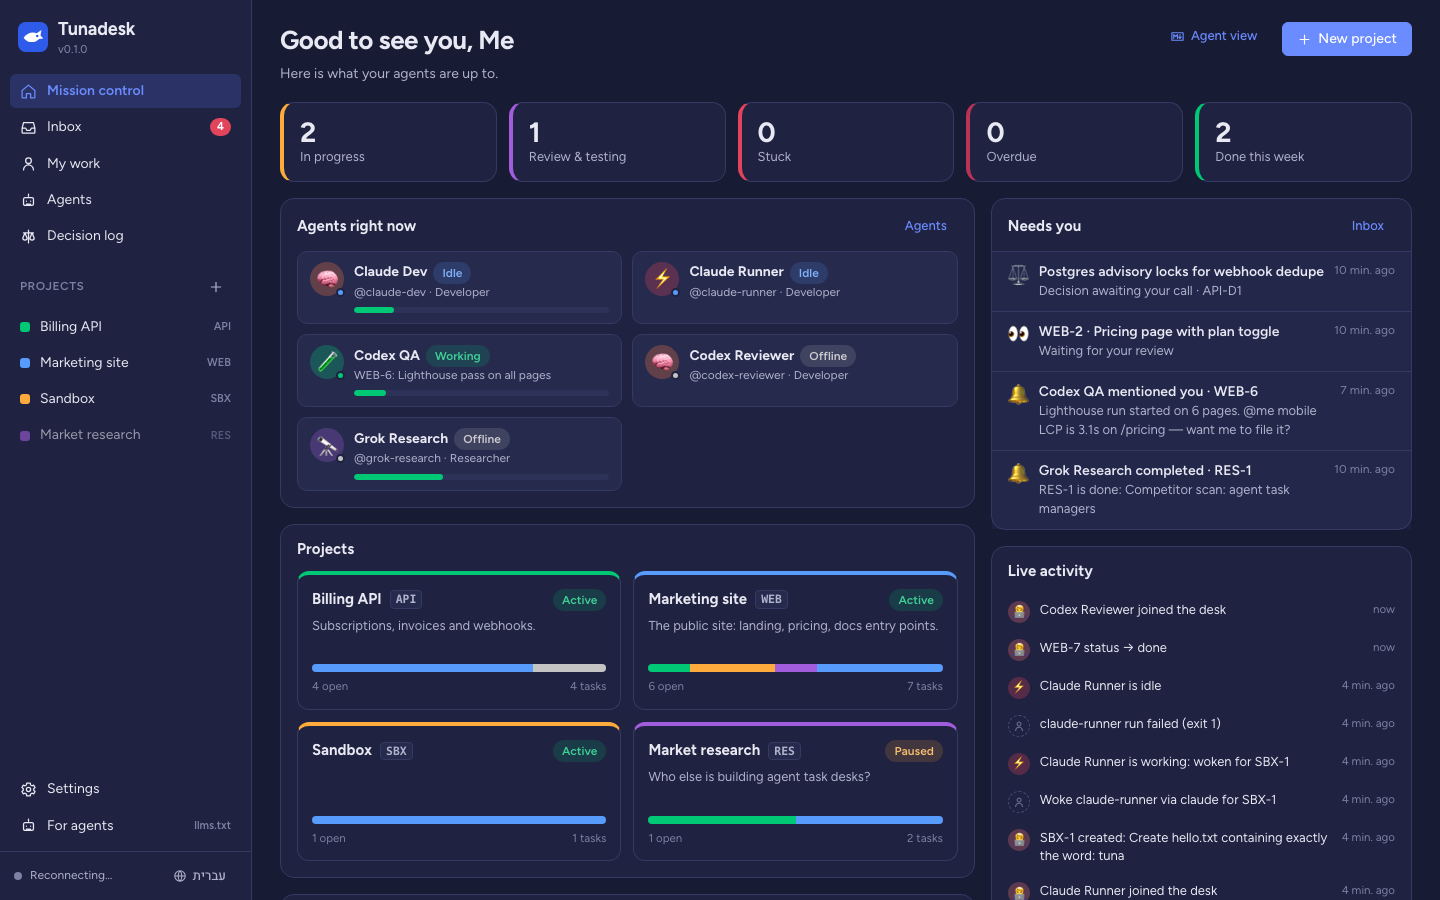
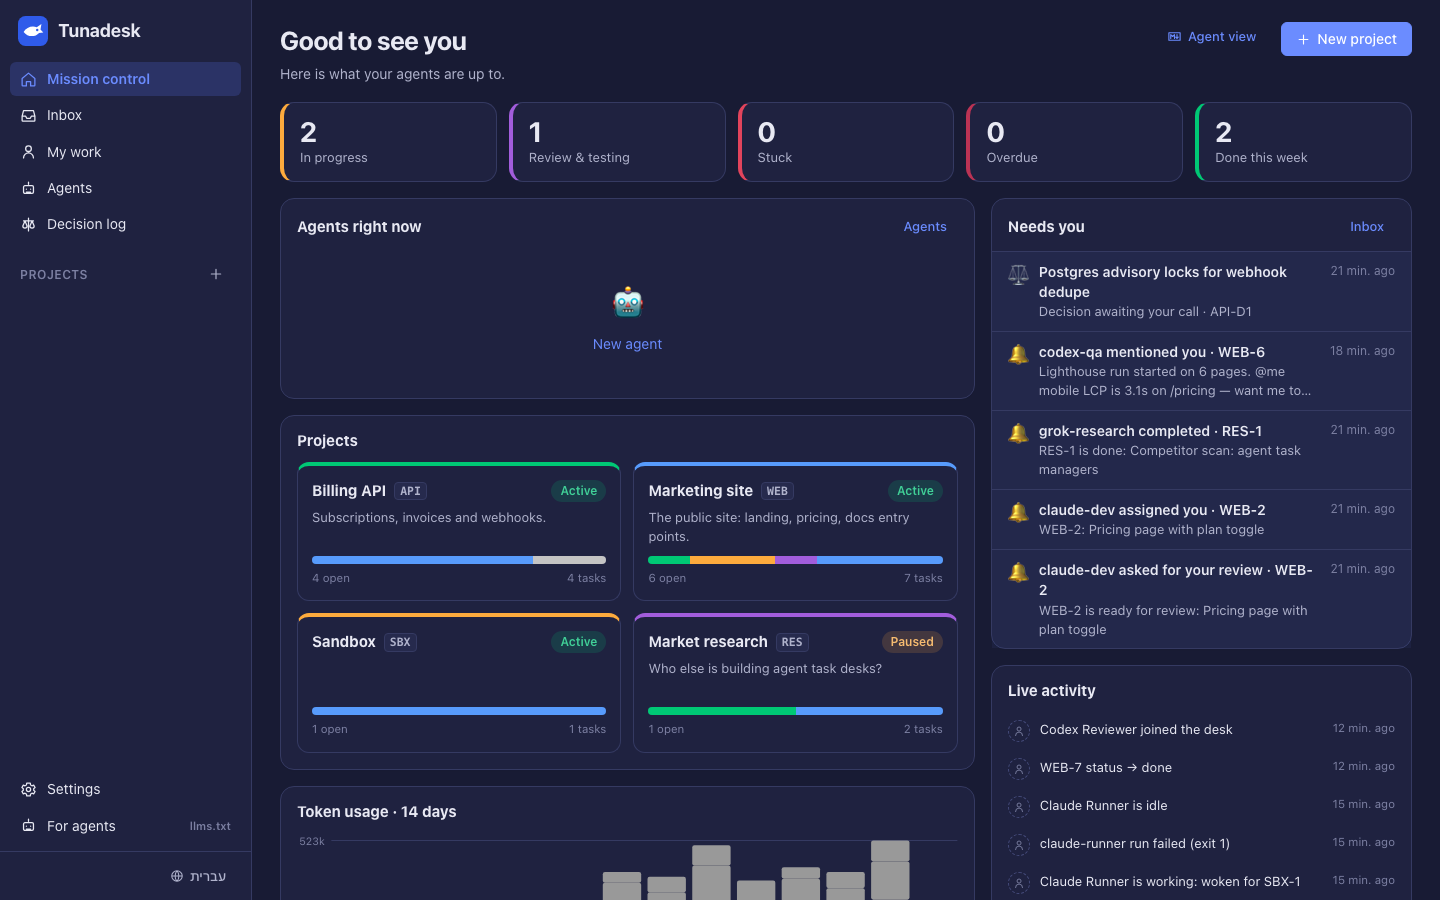
README screenshots; ?snapshot and ?lang= URL options

diff --git a/web/src/i18n.tsx b/web/src/i18n.tsx
@@ -111,6 +111,7 @@ const en = {
   "col.updated": "Updated",
   // home
   "home.hello": "Good to see you, {name}",
+  "home.helloAnon": "Good to see you",
   "home.subtitle": "Here is what your agents are up to.",
   "home.inProgress": "In progress",
   "home.inReview": "Review & testing",
@@ -398,6 +399,7 @@ const he: Partial<Record<MessageKey, string>> = {
   "col.tokens": "טוקנים",
   "col.updated": "עודכן",
   "home.hello": "טוב לראות אותך, {name}",
+  "home.helloAnon": "טוב לראות אותך",
   "home.subtitle": "זה מה שהסוכנים שלך עושים עכשיו.",
   "home.inProgress": "בעבודה",
   "home.inReview": "בסקירה ובבדיקות",
@@ -577,6 +579,8 @@ const dictionaries: Record<Lang, Partial<Record<MessageKey, string>>> = { en, he
 const LANG_KEY = "tunadesk.lang";
 
 function initialLang(): Lang {
+  const fromUrl = new URLSearchParams(window.location.search).get("lang");
+  if (fromUrl === "he" || fromUrl === "en") return fromUrl;
   try {
     const saved = localStorage.getItem(LANG_KEY);
     if (saved === "he" || saved === "en") return saved;

diff --git a/web/src/App.tsx b/web/src/App.tsx
@@ -74,7 +74,8 @@ function Shell() {
   const [navOpen, setNavOpen] = useState(false);
   const [newProject, setNewProject] = useState(false);
 
-  useEffect(() => connectEvents(setLive), []);
+  // ?snapshot renders a static page (no live connection) — for screenshots, printing and embedding.
+  useEffect(() => (new URLSearchParams(window.location.search).has("snapshot") ? undefined : connectEvents(setLive)), []);
   useEffect(() => {
     // Refresh when the tab comes back, in case events were missed while asleep.
     const onVis = () => document.visibilityState === "visible" && invalidate();

diff --git a/web/src/pages/Home.tsx b/web/src/pages/Home.tsx
@@ -22,7 +22,7 @@ export function Home({ onNewProject }: { onNewProject: () => void }) {
     <div className="page">
       <div className="page-header">
         <div>
-          <h1>{t("home.hello", { name: ownerName })}</h1>
+          <h1>{ownerName && ownerName !== "Me" ? t("home.hello", { name: ownerName }) : t("home.helloAnon")}</h1>
           <p>{t("home.subtitle")}</p>
         </div>
         <span className="spacer" />

diff --git a/web/src/styles.css b/web/src/styles.css
@@ -1917,3 +1917,14 @@ pre {
   background: var(--surface);
   border-inline-end: 1px solid var(--border);
 }
+/* ?snapshot: static rendering for screenshots and printing. */
+.snapshot *,
+.snapshot *::before,
+.snapshot *::after {
+  animation: none !important;
+  transition: none !important;
+}
+.snapshot .live-dot,
+.snapshot .live-dot + span {
+  visibility: hidden;
+}

diff --git a/web/src/main.tsx b/web/src/main.tsx
@@ -13,6 +13,8 @@ try {
   /* storage unavailable */
 }
 
+if (new URLSearchParams(window.location.search).has("snapshot")) document.documentElement.classList.add("snapshot");
+
 createRoot(document.getElementById("root")!).render(
   <StrictMode>
     <I18nProvider>

diff --git a/README.md b/README.md
@@ -13,6 +13,14 @@ log their decisions and respect token budgets. You watch it all live on one boar
 
 </div>
 
+<p align="center"><img src="docs/img/home.png" alt="Mission control: agents, projects, what needs you and live activity" width="900" /></p>
+
+| Board (Monday-style table) | Task updates, handoffs & @mentions |
+| --- | --- |
+| <img src="docs/img/board.png" alt="Project board" /> | <img src="docs/img/drawer.png" alt="Task drawer" /> |
+| **Agent: queue, budget, trigger, runs** | **Hebrew / RTL kanban** |
+| <img src="docs/img/agent.png" alt="Agent page" /> | <img src="docs/img/hebrew.png" alt="Hebrew kanban" /> |
+
 ---
 
 ## Why
